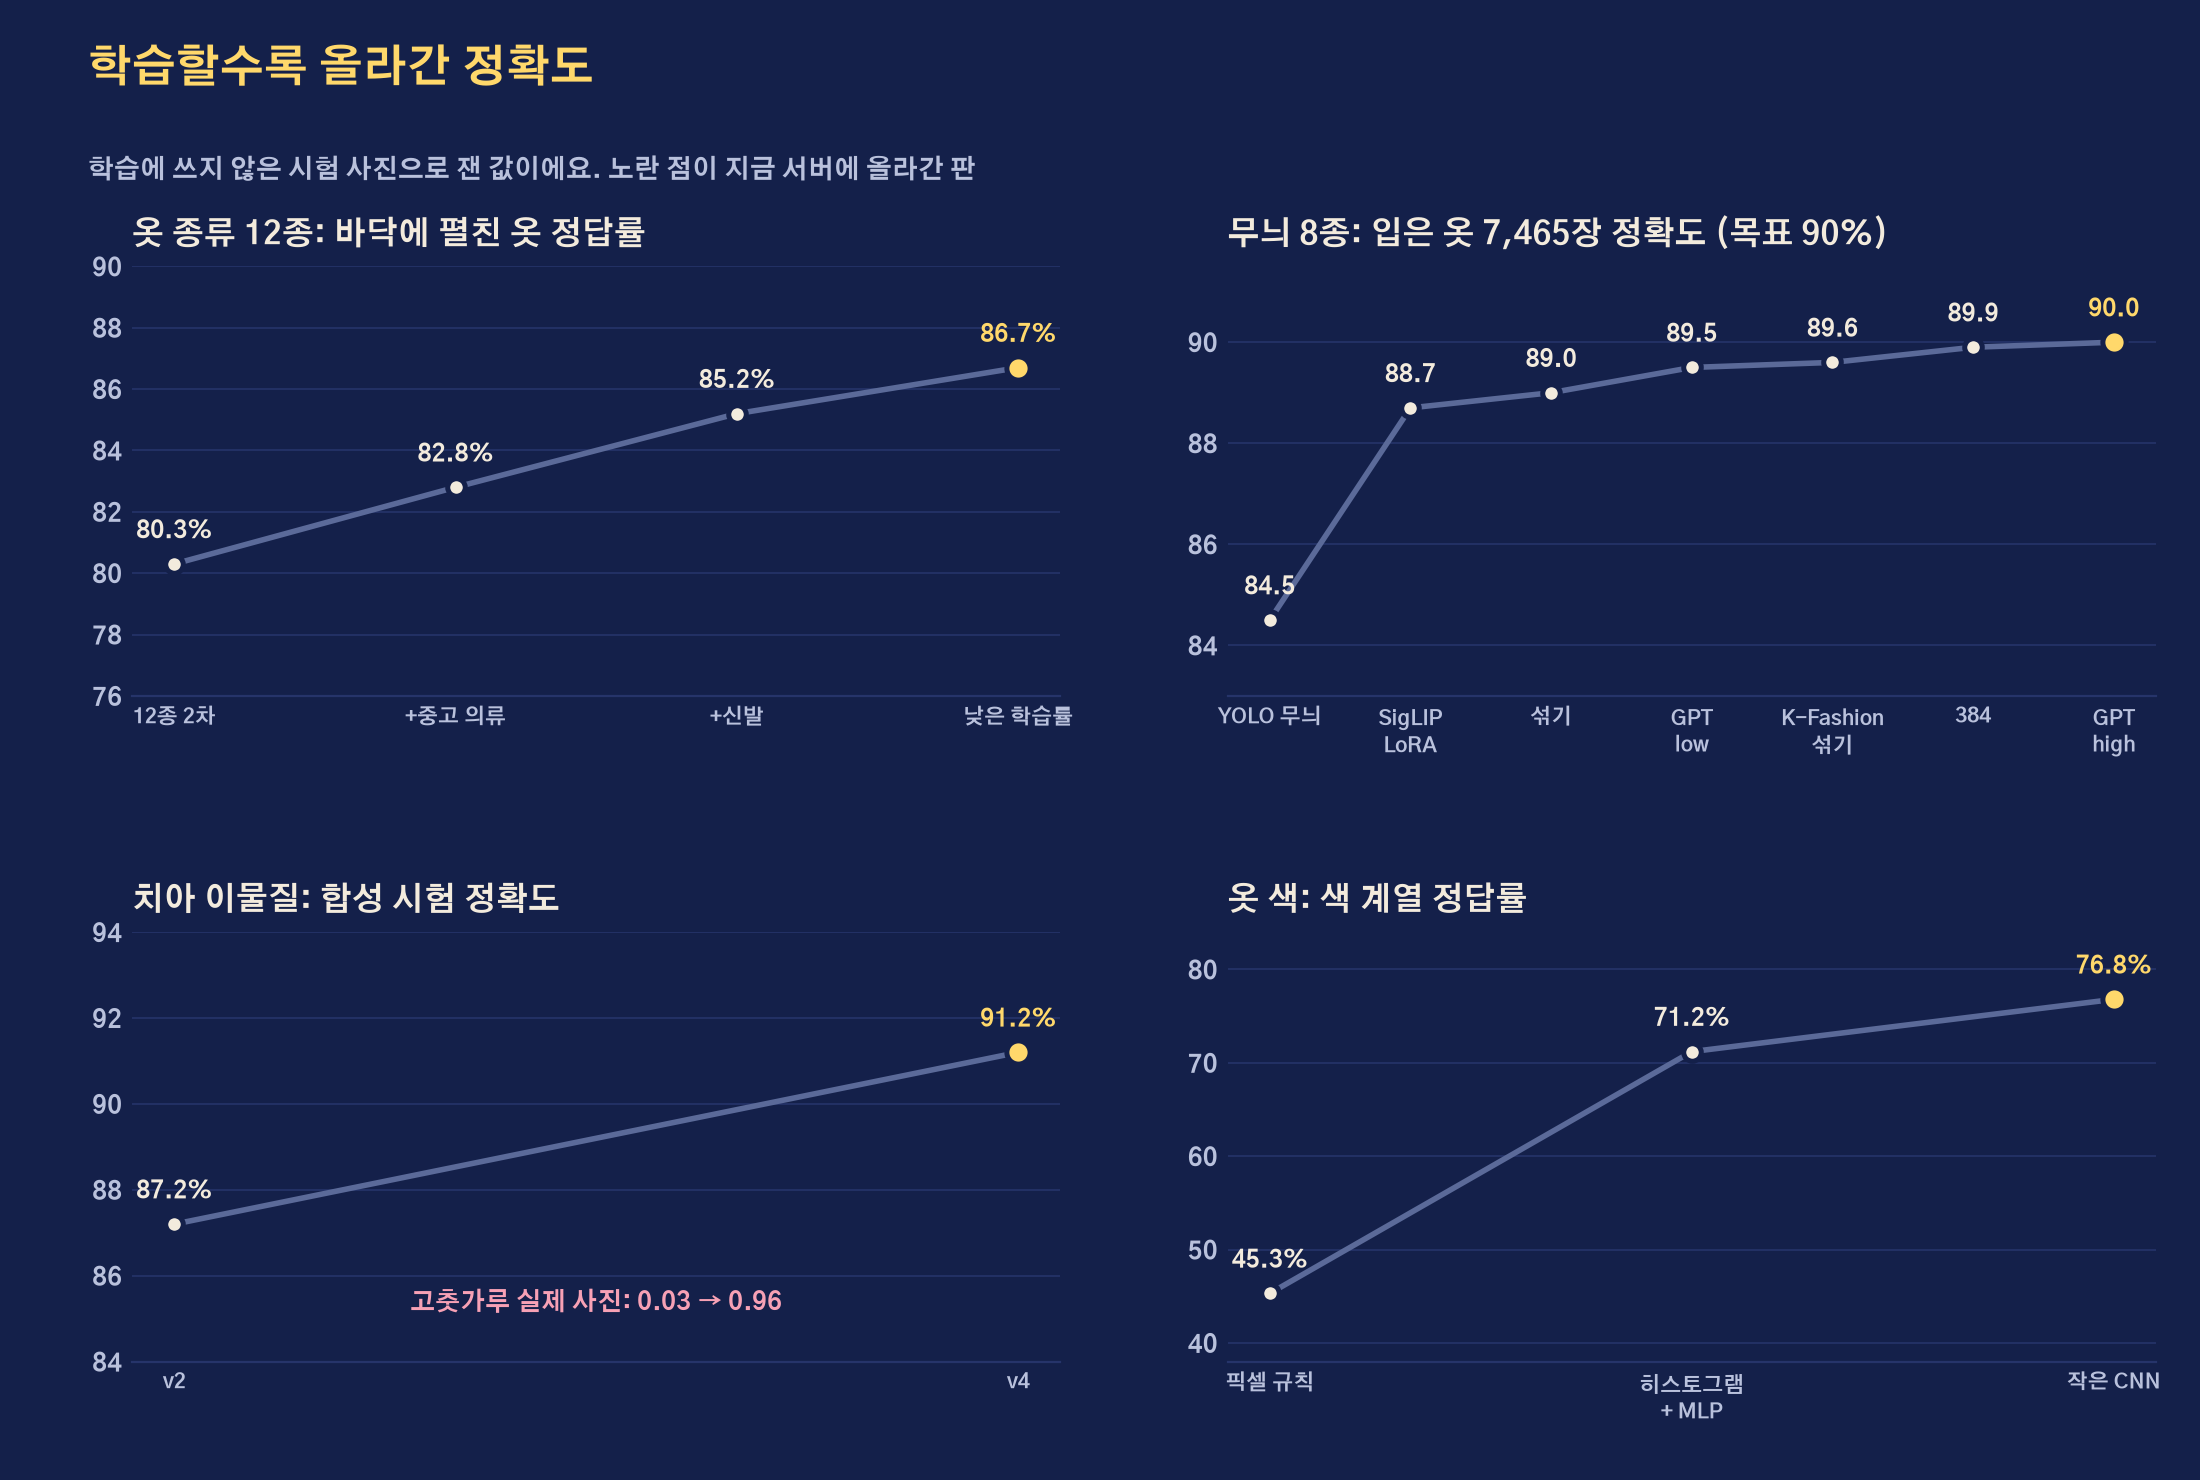
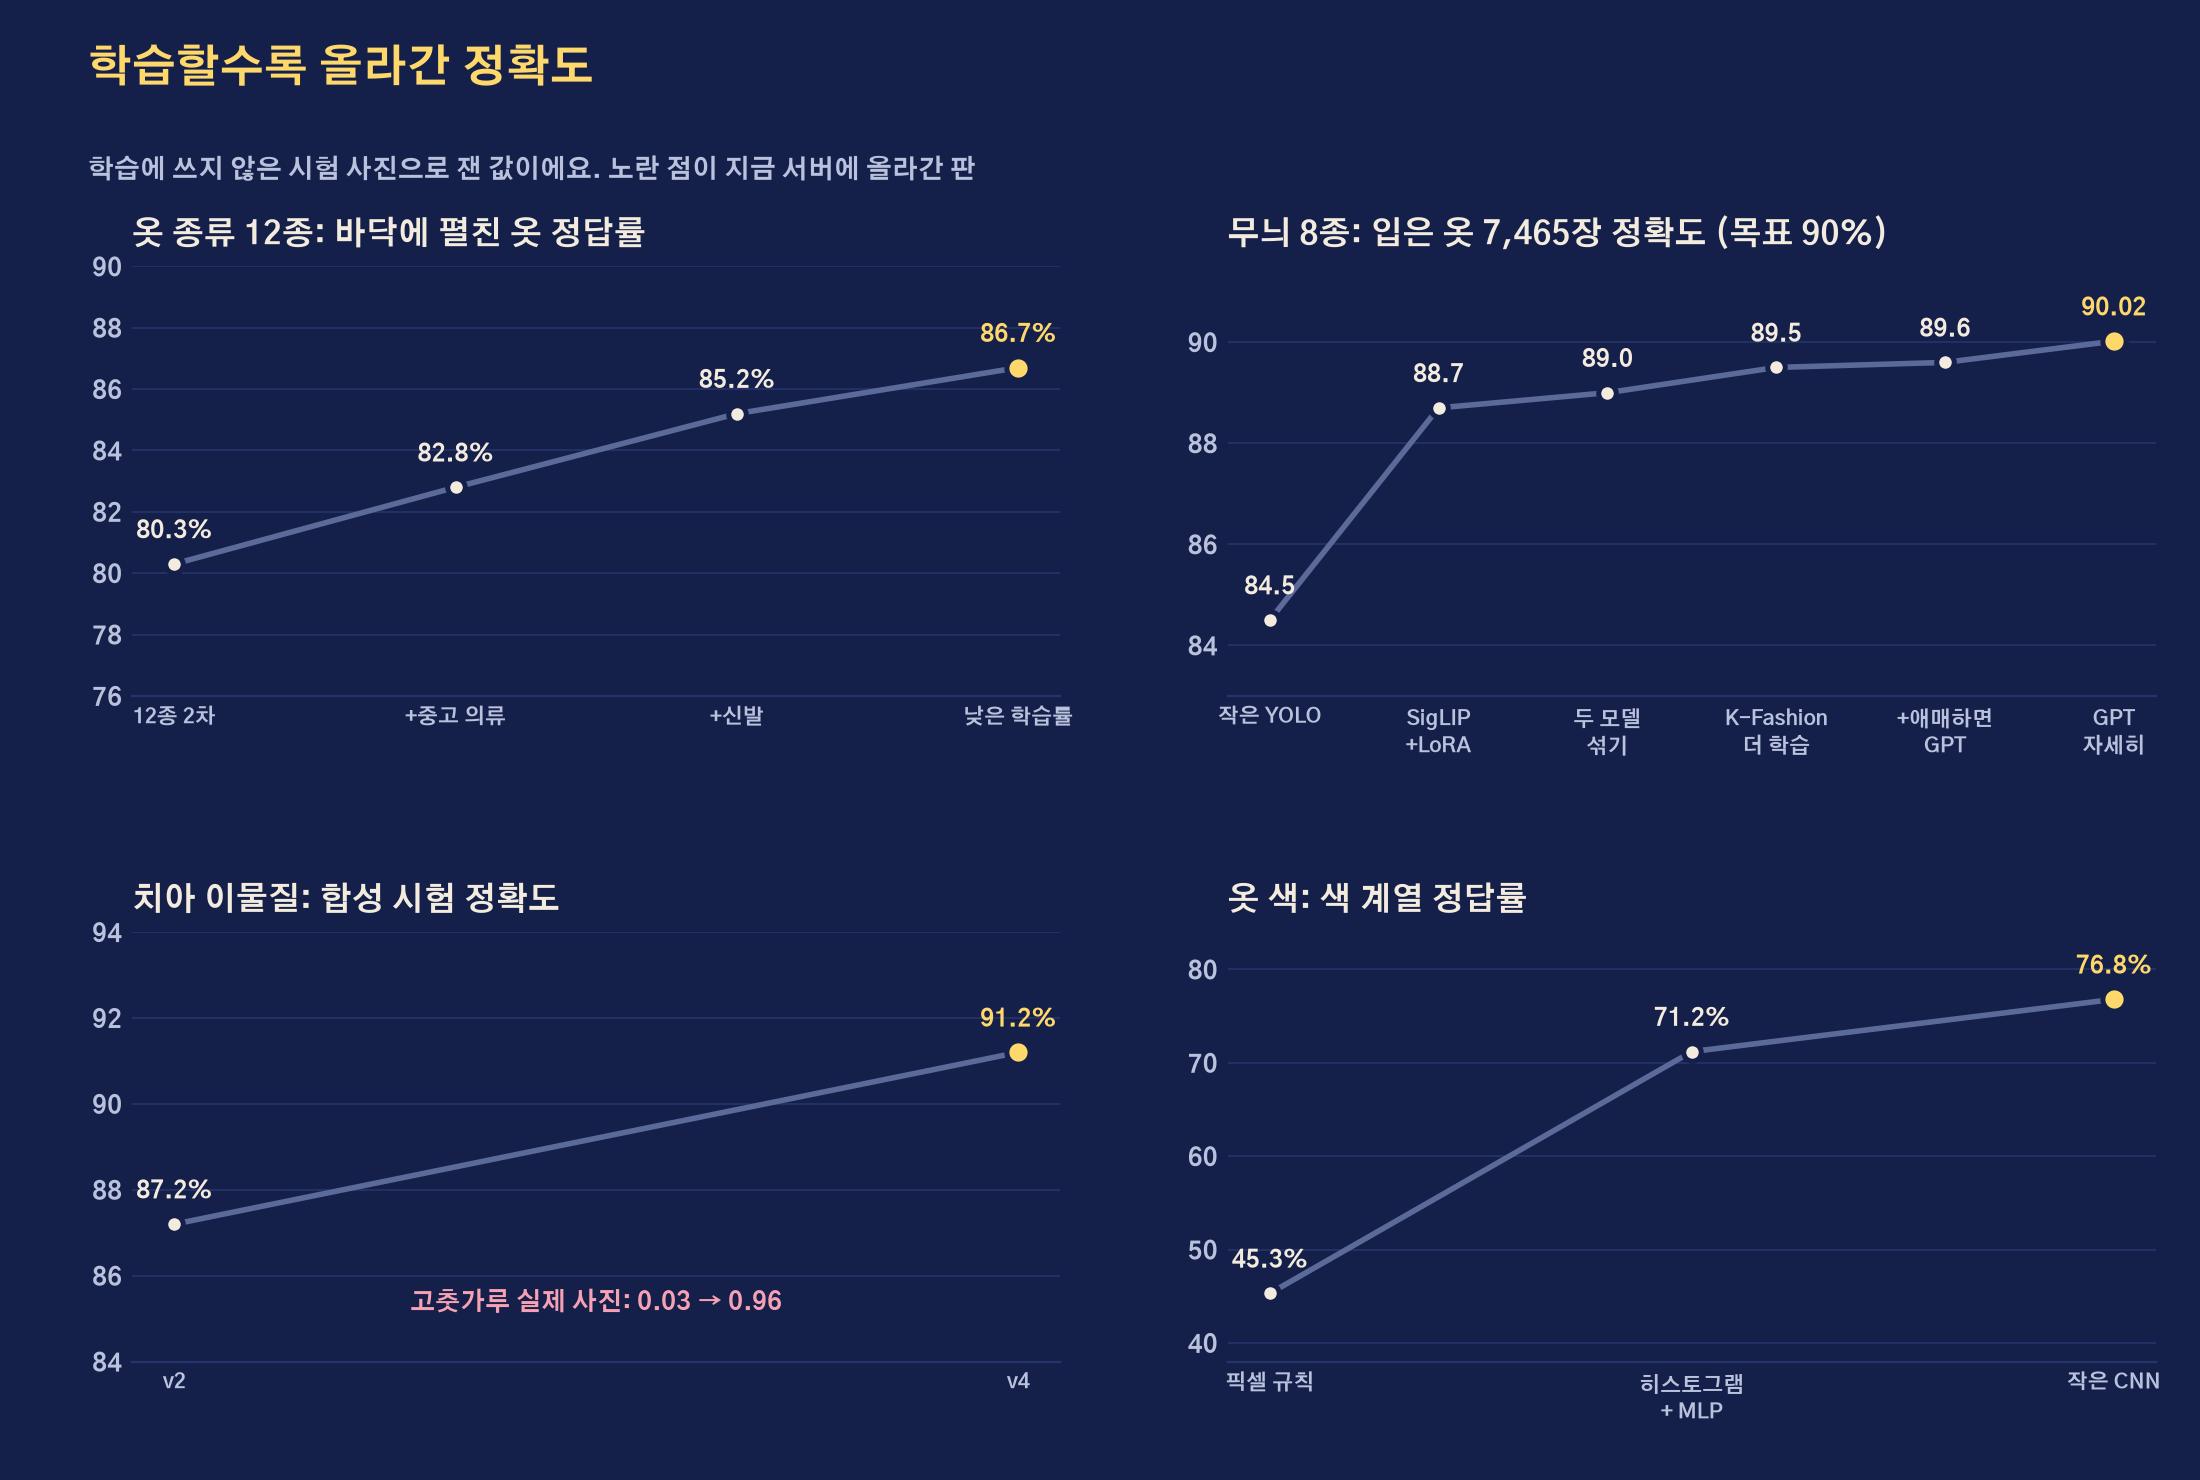
README: 무늬 모델 90% 만들기 그래프와 용어 풀이 추가

diff --git a/profile/README.md b/profile/README.md
@@ -448,7 +448,7 @@ flowchart LR
   <tr><td>얼룩·찢어짐</td><td>YOLO11n·11s·26n·26s, OWLv2, Grounding DINO</td><td><b>YOLO26n</b>: 11s와 점수는 비슷한데 1.4배 빠르고(젯슨 장당 14ms) 그림자를 덜 잘못 잡아요. 큰 공개 모델은 그대로 쓰면 AP50 0.08 이하라 우리 데이터로 학습했어요</td></tr>
   <tr><td>옷 사진 벡터 (같은 옷 찾기)</td><td>FashionSigLIP, SigLIP, SigLIP2, FashionCLIP, Jina CLIP, DINOv2, CLIP 등 <b>12개</b></td><td><b>Marqo FashionSigLIP</b>: 같은 옷을 가장 잘 찾았어요. DINOv2·CLIP B 계열은 26~45%에 그쳤어요</td></tr>
   <tr><td>옷 색</td><td>픽셀 규칙, 색 히스토그램 + MLP, 작은 CNN</td><td><b>작은 CNN(0.8MB)</b>: 색 계열 76.8%, 흰 옷 15% → 87%. 옷 모양을 봐서 배경색에 덜 속아요</td></tr>
-  <tr><td>무늬</td><td>YOLO 분류, FashionSigLIP LoRA·분류 층만·입력 384, GPT low/high</td><td><b>LoRA + YOLO 섞기 + 애매할 때만 GPT</b>: 입은 옷 90.0%로 목표 달성</td></tr>
+  <tr><td>무늬</td><td>YOLO 분류, FashionSigLIP LoRA·분류 층만·입력 384, GPT low/high</td><td><b>LoRA + YOLO 섞기 + 애매할 때만 GPT</b>: 입은 옷 90.02%로 목표 달성 (교체 준비: 서버 코드 반영, 젯슨 미반영). 지금 젯슨은 YOLO 무늬 + 모르면 GPT</td></tr>
   <tr><td>얼굴 분할</td><td>BiSeNet R18 두 학습본·R34, SegFormer, FaRL, MediaPipe</td><td><b>BiSeNet ResNet34</b>: 유일하게 통계적으로 나아졌어요(p=0.019). SegFormer는 3.6배 크고 느리고, FaRL은 646MB라 탈락</td></tr>
   <tr><td>눈 화장 좌우 비교</td><td>밝기 규칙, 작은 CNN, 넓은 망, ImageNet ResNet18·EfficientNet·ConvNeXt 등 젯슨 GPU로 <b>396판</b></td><td><b>서버 모델 + ResNet18 3개 앙상블</b>: 실사진 검출 70.7% → 78.6%, 잘못 알림 4.1%. 같은 평가 사진에서 조합을 뒤지면 점수가 부풀어서, 미리 정한 규칙(하나씩 점수 상위 3개)으로 골랐어요</td></tr>
   <tr><td>치아</td><td>모델 4, 이어 학습 3, LoRA 4, 색 규칙 4, GPT</td><td><b>직접 학습한 v4 + 6번 평균</b>: 깨끗한 이 잘못 알림 1.1%. 얼굴·치아 사진은 GPT로 보내지 않기로 해서 GPT는 탈락</td></tr>
@@ -461,6 +461,11 @@ flowchart LR
 
 <p align="center"><img src="https://raw.githubusercontent.com/fashion-agent-team/.github/main/profile/images/charts/1122-progress-stain.png" width="100%" alt="얼룩·찢어짐 모델 v1부터 v7까지 mAP50 변화. v6 채택, v7은 오탐이 늘어 안 씀"/></p>
 <p align="center"><img src="https://raw.githubusercontent.com/fashion-agent-team/.github/main/profile/images/charts/1122-progress-models.png" width="100%" alt="옷 종류, 무늬, 치아, 옷 색 모델이 학습할수록 정확도가 오른 꺾은선 그래프"/></p>
+<p align="center"><img src="https://raw.githubusercontent.com/fashion-agent-team/.github/main/profile/images/charts/1122-progress-pattern.png" width="100%" alt="무늬 8종 모델을 입은 옷 정확도 84.5%에서 90.02%까지 올린 단계별 그래프와 용어 풀이"/></p>
+
+> **무늬 모델은 이렇게 90%를 넘겼어요.** 빠른 작은 모델(YOLO)이 입은 옷에서 84.5%에 머물러, 패션 사진을 많이 본 큰 모델(FashionSigLIP)에 무늬를 가르쳤어요(88.7%). 그다음 두 모델의 답을 섞고, K-Fashion 7.6만 장을 더 배우고, 애매한 옷 6.5%만 GPT에게 크게 보여 물어 **90.02%**가 됐어요.
+> 크게 다시 학습(87.4%)과 사진 크게(384px, 3배 느림)는 시험해 보고 뺐어요. 지금 젯슨 서버는 작은 모델 + "모르면 GPT"(바닥에 펼친 옷 90.5%)로 돌고, 마지막 판은 서버 코드에 넣어 둔 **교체 준비** 상태예요.
+
 <p align="center"><img src="https://raw.githubusercontent.com/fashion-agent-team/.github/main/profile/images/charts/1122-progress-before-after.png" width="100%" alt="화장 좌우 비교와 입은 옷 실수 모델의 예전 방식 대비 향상"/></p>
 
 <details><summary><b>숫자로 보는 학습 기록</b></summary>
